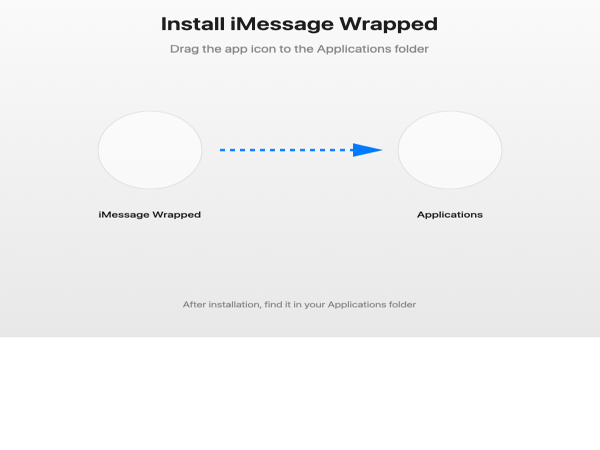
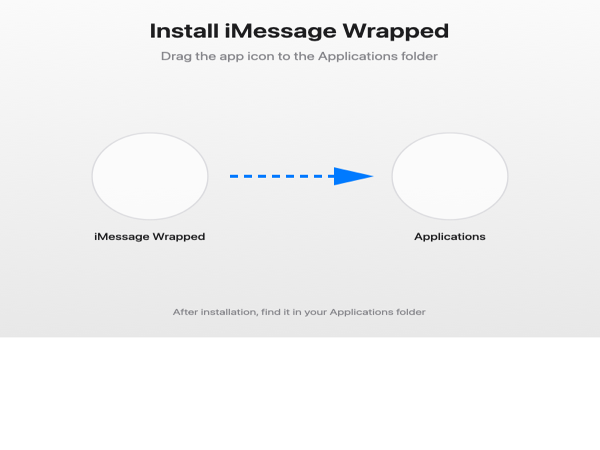
better dmg image and tapback display

diff --git a/web/components/TapbacksSection.js b/web/components/TapbacksSection.js
@@ -1,13 +1,36 @@
 import StatCard from './StatCard'
 
+const TAPBACK_EMOJIS = {
+  'love': '❤',
+  'like': '👍',
+  'laugh': '😂',
+  'emphasize': '❗',
+  'dislike': '👎',
+  'question': '❓'
+}
+
+const TAPBACK_LABELS = {
+  'love': 'Love',
+  'like': 'Like',
+  'laugh': 'Laugh',
+  'emphasize': 'Emphasize',
+  'dislike': 'Dislike',
+  'question': 'Question'
+}
+
 export default function TapbacksSection({ tapbacks }) {
   if (!tapbacks || (tapbacks.total_tapbacks_given === 0 && tapbacks.total_tapbacks_received === 0)) {
     return null
   }
 
+  const tapbackDistribution = tapbacks.tapback_distribution_given || {}
+  const orderedTapbacks = ['love', 'like', 'laugh', 'emphasize', 'dislike', 'question']
+    .filter(type => tapbackDistribution[type] > 0)
+
   return (
     <div className="section">
       <h2 className="section-title">❤ Reactions & Tapbacks</h2>
+      
       <div className="stats-grid">
         {tapbacks.total_tapbacks_given > 0 && (
           <StatCard 
@@ -25,27 +48,68 @@ export default function TapbacksSection({ tapbacks }) {
         )}
       </div>
 
-      {tapbacks.favorite_tapback && tapbacks.favorite_tapback[0] && (
-        <div style={{ marginTop: '2rem', textAlign: 'center' }}>
-          <p style={{ opacity: 0.8 }}>Your Favorite Reaction</p>
-          <p style={{ fontSize: '2.5rem', fontWeight: 'bold', color: '#ef4444' }}>
-            {tapbacks.favorite_tapback[0]}
-          </p>
-          <p style={{ opacity: 0.7 }}>
-            {tapbacks.favorite_tapback[1].toLocaleString()} times
-          </p>
-        </div>
-      )}
+      {orderedTapbacks.length > 0 && (
+        <div style={{ marginTop: '2rem' }}>
+          <h3 style={{ textAlign: 'center', fontSize: '1.5rem', marginBottom: '1.5rem', opacity: 0.9 }}>
+            Your Reactions
+          </h3>
+          <div style={{ 
+            display: 'grid', 
+            gridTemplateColumns: 'repeat(auto-fit, minmax(140px, 1fr))',
+            gap: '1rem',
+            maxWidth: '1100px',
+            margin: '0 auto'
+          }}>
+            {orderedTapbacks.map(type => (
+              <div 
+                key={type}
+                style={{
+                  background: 'rgba(255, 255, 255, 0.05)',
+                  borderRadius: '12px',
+                  padding: '1.5rem',
+                  textAlign: 'center',
+                  border: '1px solid rgba(255, 255, 255, 0.1)',
+                  transition: 'all 0.3s ease'
+                }}
+              >
+                <div style={{ fontSize: '3rem', marginBottom: '0.5rem' }}>
+                  {TAPBACK_EMOJIS[type]}
+                </div>
+                <div style={{ fontSize: '0.9rem', opacity: 0.7, marginBottom: '0.25rem' }}>
+                  {TAPBACK_LABELS[type]}
+                </div>
+                <div style={{ fontSize: '1.75rem', fontWeight: 'bold', color: '#a78bfa' }}>
+                  {tapbackDistribution[type].toLocaleString()}
+                </div>
+              </div>
+            ))}
+          </div>
 
-      {tapbacks.most_received_tapback && tapbacks.most_received_tapback[0] && (
-        <div style={{ marginTop: '2rem', textAlign: 'center' }}>
-          <p style={{ opacity: 0.8 }}>Most Received Reaction</p>
-          <p style={{ fontSize: '2.5rem', fontWeight: 'bold', color: '#ec4899' }}>
-            {tapbacks.most_received_tapback[0]}
-          </p>
-          <p style={{ opacity: 0.7 }}>
-            {tapbacks.most_received_tapback[1].toLocaleString()} times
-          </p>
+          {tapbackDistribution.like > 0 && tapbackDistribution.dislike > 0 && (
+            <div style={{ 
+              marginTop: '2rem',
+              textAlign: 'center',
+              background: 'rgba(255, 255, 255, 0.05)',
+              borderRadius: '16px',
+              padding: '2rem',
+              maxWidth: '400px',
+              margin: '2rem auto 0',
+              border: '1px solid rgba(255, 255, 255, 0.1)'
+            }}>
+              <div style={{ fontSize: '0.9rem', opacity: 0.7, marginBottom: '0.75rem' }}>
+                Like to Dislike Ratio
+              </div>
+              <div style={{ fontSize: '3rem', marginBottom: '0.5rem' }}>
+                👍 / 👎
+              </div>
+              <div style={{ fontSize: '2.5rem', fontWeight: 'bold', color: '#10b981' }}>
+                {Math.round(tapbackDistribution.like / tapbackDistribution.dislike)}:1
+              </div>
+              <div style={{ fontSize: '0.85rem', opacity: 0.6, marginTop: '0.5rem' }}>
+                {tapbackDistribution.like.toLocaleString()} likes vs {tapbackDistribution.dislike.toLocaleString()} dislikes
+              </div>
+            </div>
+          )}
         </div>
       )}
     </div>
